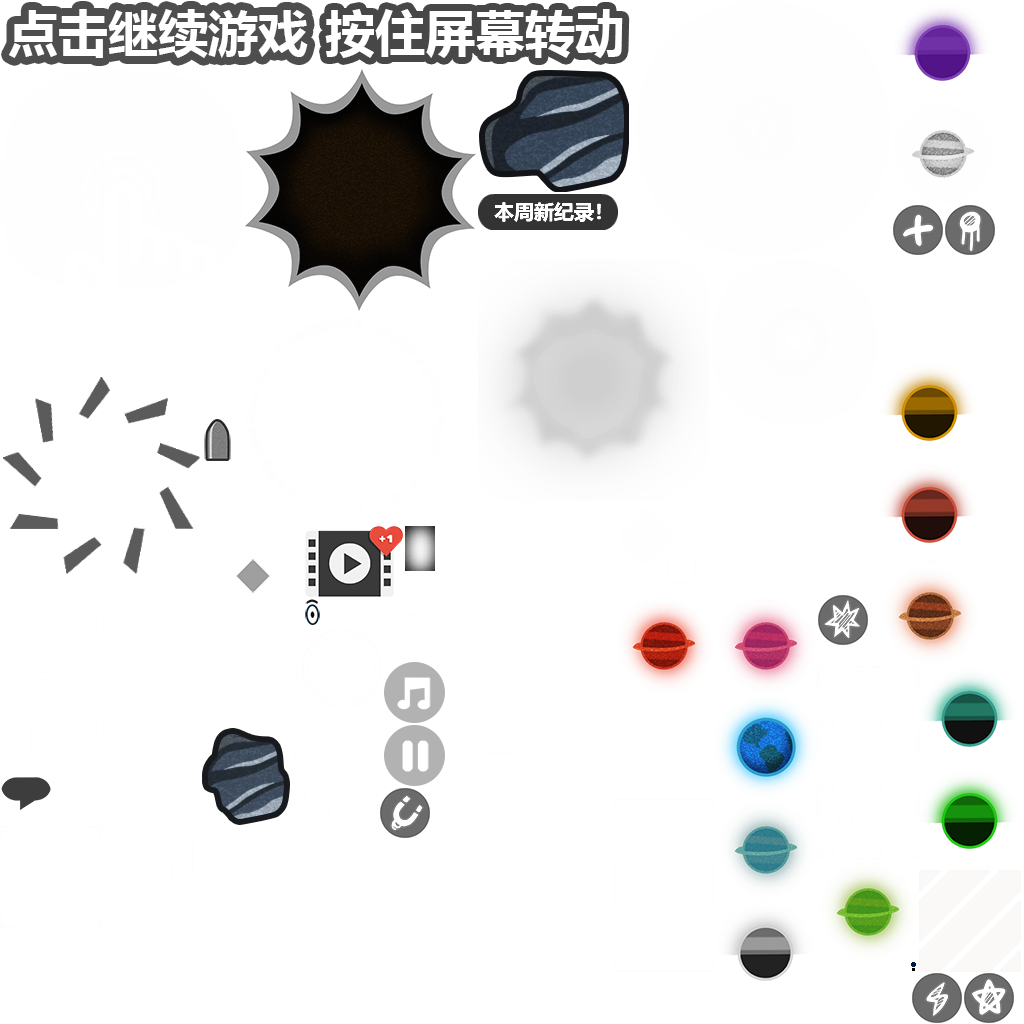
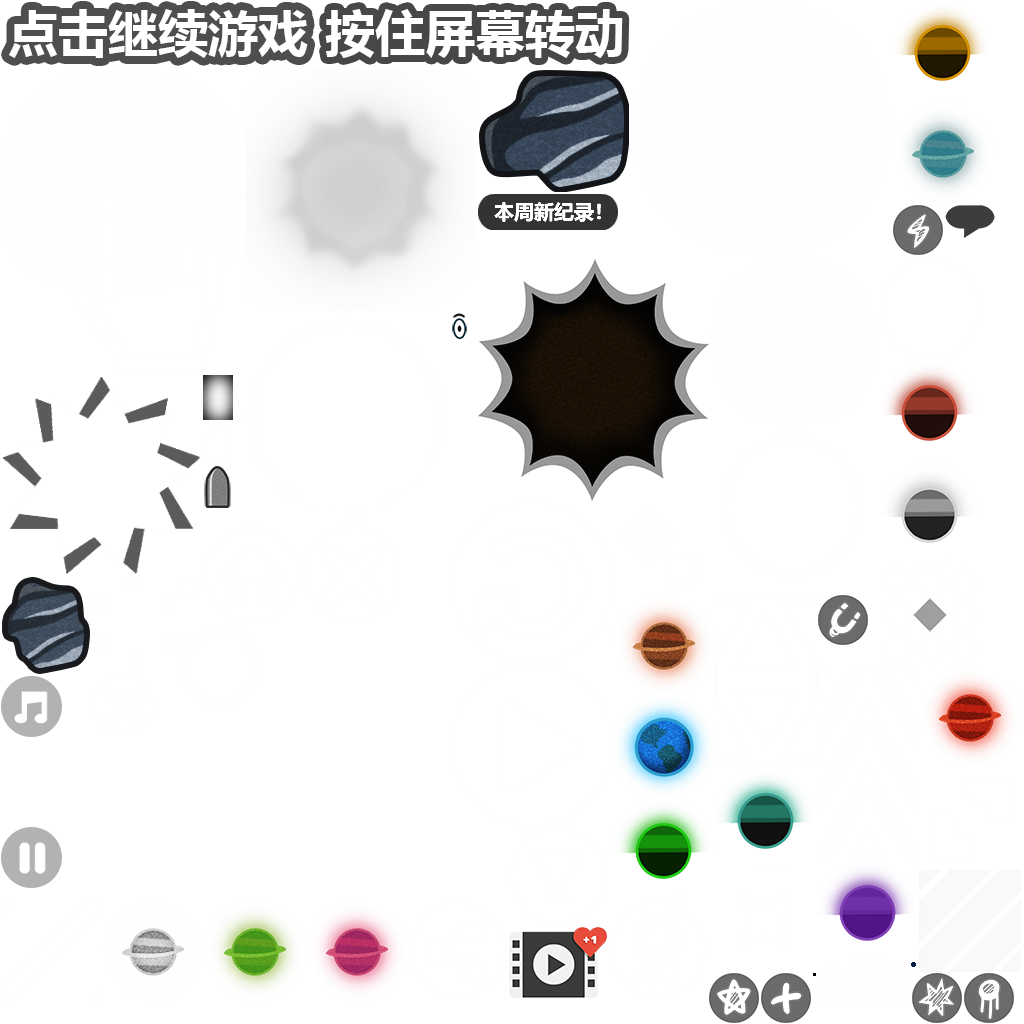
1

diff --git a/src/performance/ui/SpikeCenter.ts b/src/performance/ui/SpikeCenter.ts
@@ -10,34 +10,35 @@ module planetJump {
 			let self = this;
 			//console.log("onCreate:", self.key);
 			utils.EventDispatcher.getInstance().addEventListener("newRound", self.onNewRound, self);
-			utils.EventDispatcher.getInstance().addEventListener("spawnSpike", self.onSpawnSpike, self);
+			utils.EventDispatcher.getInstance().addEventListener("changeBgColor", self.onChangLight, self);
 		}
 
 		public onDestroy(){
 			let self = this;
 			//console.log("onDestroy:", self.key);
 			utils.EventDispatcher.getInstance().removeEventListener("newRound", self.onNewRound, self);
-			utils.EventDispatcher.getInstance().removeEventListener("spawnSpike", self.onSpawnSpike, self);
+			utils.EventDispatcher.getInstance().removeEventListener("changeBgColor", self.onChangLight, self);
 		}
 
 		public onEnterFrame(deltaTime:number){
 			let self = this;
-			self.rotate.rotation++;
-			if(self.rotate.rotation > 180)
-				self.rotate.rotation -= 360;
+			self.blackHole.rotation++;
+			if(self.blackHole.rotation > 180)
+				self.blackHole.rotation -= 360;
 		}
 		//********************* 接口实现结束 ********************//
 
-		private rotate:fairygui.GObject;
+		private blackHole:fairygui.GComponent;
+		private lightImg:fairygui.GImage;
 		private multiNum:fairygui.GTextField;
-		private t0:fairygui.Transition;
 
 		constructFromResource(){
             super.constructFromResource();
             let self = this;         
-			self.rotate = self.getChild("n0");
+			self.blackHole = self.getChild("blackHole").asCom;
+			self.lightImg = self.blackHole.getChild("lightImg").asImage;
+			self.lightImg.color = parseInt(GameCfg.getCfg().BgColors[0]);
 			self.multiNum = self.getChild("multiNum").asTextField;
-			self.t0 = self.getTransition("t0");
         }
 
 		private onNewRound(rounds){
@@ -45,9 +46,9 @@ module planetJump {
 			self.multiNum.text = "x" + rounds;
 		}
 
-		public onSpawnSpike(){
+		private onChangLight(color:number){
 			let self = this;
-			self.t0.play(null, self, null, 3);
+			self.lightImg.color = color;
 		}
 	}
 }

diff --git a/src/logic/GameMgr.ts b/src/logic/GameMgr.ts
@@ -178,13 +178,13 @@ module planetJump {
 		public getShareImgUrlId(shareImgId:number = -1):string[]{
 			let arr = [
 				["", "https://mmocgame.qpic.cn/wechatgame/ib1ZlEfsuWzBlMianh5iaqObI06H2J2vLgu5nFsXIfWeEibTsAP9v1DNHsOJAtibgdJhJ/0"],
-				["Z48e_OwCRmGCxZzvY33xyw", "https://mmocgame.qpic.cn/wechatgame/ib1ZlEfsuWzC89r1OCNkLxlEykiaKyFTZyVqXAJQluLcuiaBamruqr8hucMtnUAA9sA/0"],
-				["SslXVQ9WS9ySqCX_EmjGww", "https://mmocgame.qpic.cn/wechatgame/ib1ZlEfsuWzBasfSDwqemHMDJvZ8OyJYYvyS0h9Pcrmp7tQDKYfocQaoia2YpzJVul/0"],
-				["jxKor47oSTqhSz8dTWZ2EQ", "https://mmocgame.qpic.cn/wechatgame/ib1ZlEfsuWzAyNhicibcGVy9nbgibIRH6IialUVz6YEvr57oJFXMEUwZnib5sC5JRjPOoM/0"],
+				["B0f2KLIOQfi_AIv7qep5kQ", "https://mmocgame.qpic.cn/wechatgame/ib1ZlEfsuWzCfosWJQPhZJwpaV6EzUibWVmkoEwsRskMWYls7GFDDjq0J4zEiagCgvd/0"],
+				["qcglU7v4TAuf0eRYI46h8A", "https://mmocgame.qpic.cn/wechatgame/ib1ZlEfsuWzB7jkV42B09xuer2NToEGcwDiblmJr8vzYic8yTpwl2aD7Jc9t6qI0usk/0"],
+				["8Cqy0zJZSTmH5ARvaopFAw", "https://mmocgame.qpic.cn/wechatgame/ib1ZlEfsuWzBLVSYJqmibcgibsgMzxNfiaY0If5kEBu1KpP0sic4MQPdBApGSTSxX0czt/0"],
 			];
 
 			if(shareImgId == -1){
-				let idx = Math.round(1 + Math.random() * (arr.length - 2));
+				let idx = Math.floor(1 + Math.random() * (arr.length - 1));
 				return arr[idx];
 			}
 			else

diff --git a/src/performance/ui/World.ts b/src/performance/ui/World.ts
@@ -99,6 +99,9 @@ module planetJump{
 
 		private init(){
 			let self = this;
+			// 全局光
+			let worldLight = fairygui.UIPackage.createObject('leap', "WoldLight");
+			self.addChild(worldLight.displayObject);
 
 			// 物品容器
 			self.itemContainer = new egret.DisplayObjectContainer();
@@ -115,6 +118,7 @@ module planetJump{
 			self.linkLine.touchable = false;
 			self.linkLine.width = 4;
 			self.linkLine.pivotX = 0.5;
+			self.linkLine.alpha = 0.6;
 			self.addChild(self.linkLine.displayObject);
 
 			// 玩家显示对象

diff --git a/src/performance/ui/TextureBackground.ts b/src/performance/ui/TextureBackground.ts
@@ -39,7 +39,7 @@ module planetJump {
 			self.lastIdx = idx;
 			self.curImg = self.imgs[idx];
 
-			egret.Tween.get(self.curImg).set({visible:true, alpha:0}).to({alpha:0.2}, 500, egret.Ease.sineInOut);
+			egret.Tween.get(self.curImg).set({visible:true, alpha:0}).to({alpha:0.1}, 500, egret.Ease.sineInOut);
 		}
 
 		public hide(){

diff --git a/src/performance/ui/Background.ts b/src/performance/ui/Background.ts
@@ -111,7 +111,7 @@ module planetJump{
 			//let idx = (lv - 1) % colors.length;
 			//let color = parseInt(colors[idx]);
 
-			let c = self.getRandomColor16ByHSV([0, 360], [0, 90], [0, 50]);
+			let c = self.getRandomColor16ByHSV([0, 360], [40, 90], [10, 50]);
 			self.changeColor(c);
 		}
 

diff --git a/src/performance/ui/item/obstruction/ObTriangleSpawner.ts b/src/performance/ui/item/obstruction/ObTriangleSpawner.ts
@@ -13,7 +13,7 @@ module planetJump {
 			if(!self.canSpawnOb())
 				return;					
 
-			utils.EventDispatcher.getInstance().dispatchEvent("spawnSpike");
+			//utils.EventDispatcher.getInstance().dispatchEvent("spawnSpike");
 			
 			let itemCfg = GameCfg.getCfg().Items[self.key];
 

diff --git a/template/runtime/native_require.js b/template/runtime/native_require.js
@@ -37,7 +37,7 @@ egret_native.egretStart = function () {
 		contentWidth: 720,
 		contentHeight: 1280,
 		showPaintRect: false,
-		showFPS: false,
+		showFPS: true,
 		fpsStyles: "x:0,y:0,size:12,textColor:0xffffff,bgAlpha:0.9",
 		showLog: false,
 		logFilter: "",

diff --git a/src/performance/ui/Player.ts b/src/performance/ui/Player.ts
@@ -242,7 +242,7 @@ module planetJump {
 					ob.touchable = false;
 					return ob;
 				}
-				self.trail.init(280, 0.3, 0, 5, 0.7);
+				self.trail.init(280, 0.2, 0, 5, 0.7);
 				self.displayListContainer.addChild(self.trail);
 			}
 
